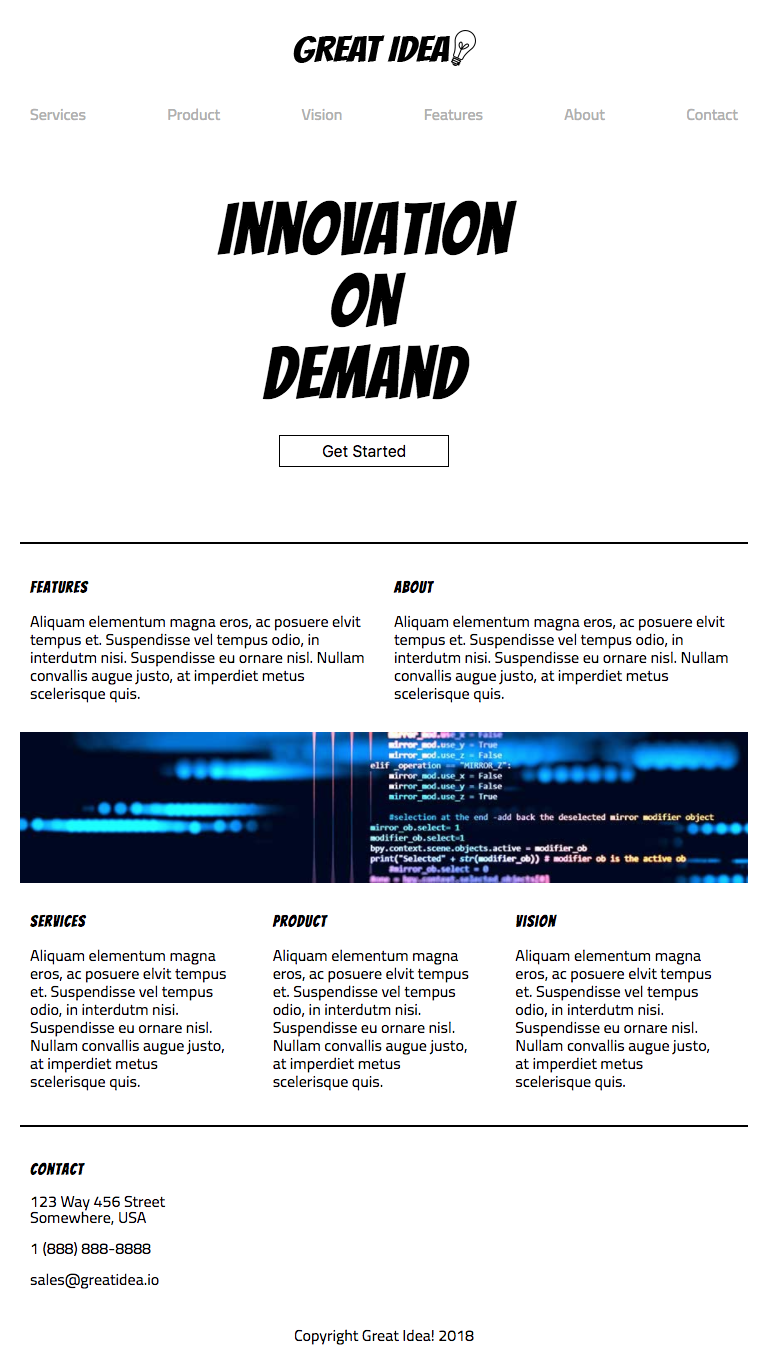
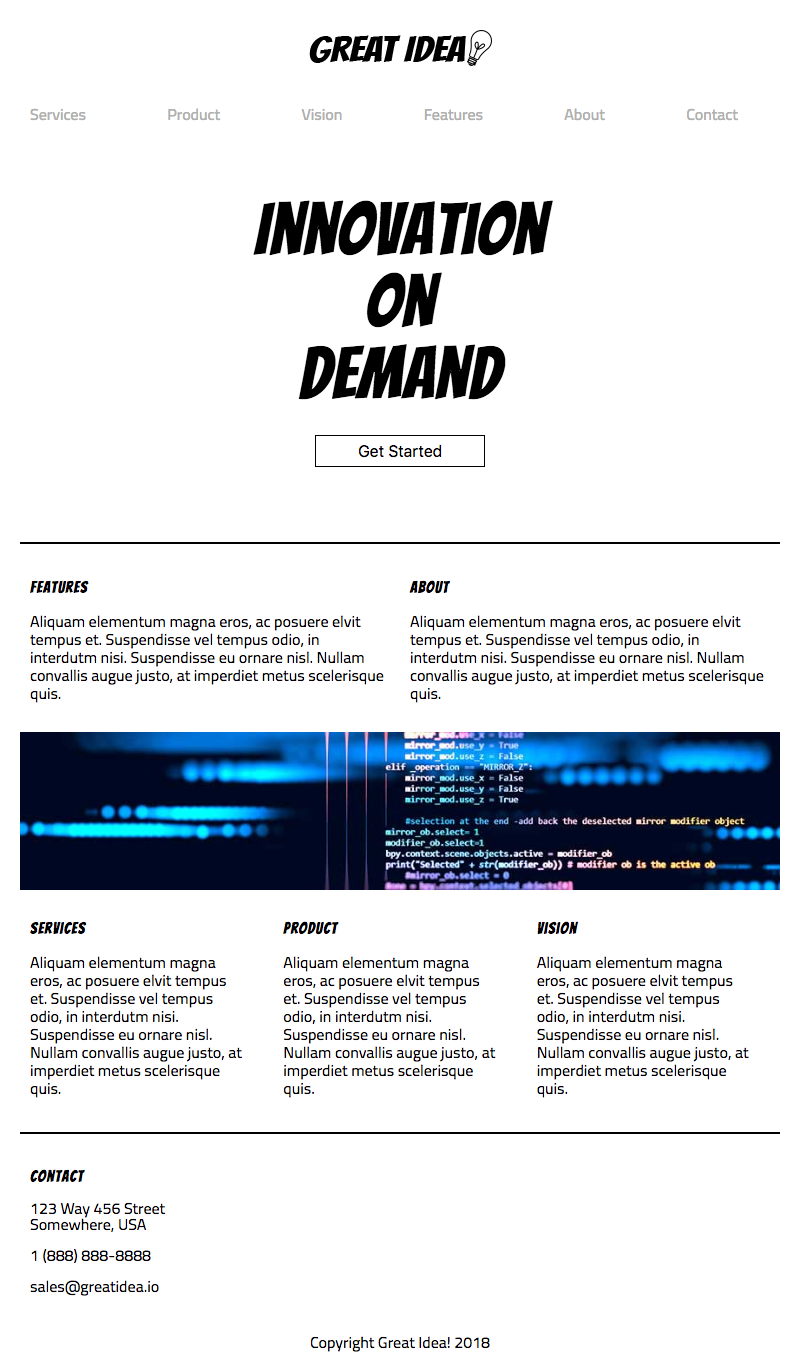
Updates to RWD - II

diff --git a/css/index.css b/css/index.css
@@ -1,175 +1,1 @@
-/* http://meyerweb.com/eric/tools/css/reset/ 
-   v2.0 | 20110126
-   License: none (public domain)
-*/
-
-html, body, div, span, applet, object, iframe,
-h1, h2, h3, h4, h5, h6, p, blockquote, pre,
-a, abbr, acronym, address, big, cite, code,
-del, dfn, em, img, ins, kbd, q, s, samp,
-small, strike, strong, sub, sup, tt, var,
-b, u, i, center,
-dl, dt, dd, ol, ul, li,
-fieldset, form, label, legend,
-table, caption, tbody, tfoot, thead, tr, th, td,
-article, aside, canvas, details, embed, 
-figure, figcaption, footer, header, hgroup, 
-menu, nav, output, ruby, section, summary,
-time, mark, audio, video {
-	margin: 0;
-	padding: 0;
-	border: 0;
-	font-size: 100%;
-	font: inherit;
-	vertical-align: baseline;
-}
-/* HTML5 display-role reset for older browsers */
-article, aside, details, figcaption, figure, 
-footer, header, hgroup, menu, nav, section {
-	display: block;
-}
-body {
-	line-height: 1;
-}
-ol, ul {
-	list-style: none;
-}
-blockquote, q {
-	quotes: none;
-}
-blockquote:before, blockquote:after,
-q:before, q:after {
-	content: '';
-	content: none;
-}
-table {
-	border-collapse: collapse;
-	border-spacing: 0;
-}
-
-/* Set every element's box-sizing to border-box */
-* {
-    box-sizing: border-box;
-}
-
-html, body {
-    height: 100%;
-    font-family: 'Titillium Web', sans-serif;
-}
-
-h1, h2, h3, h4, h5 {
-    font-family: 'Bangers', cursive;
-    letter-spacing: 1px;
-    margin-bottom: 10px;
-}
-
-.container {
-    width: 880px;
-    margin: auto;
-}
-
-/* Header Styles */
-
-header {
-    width: 100%;
-    display: flex;
-}
-
-header nav {
-    margin-top: 40px; 
-    width: 610px;
-    justify-content: space-between;
-    display: flex;
-}
-
-header nav a {
-    text-decoration: none;
-    color: #b0b0b0;
-}
-
-header nav a:hover {
-    text-decoration: underline;
-    color: black;
-}
-
-header .logo {
-    align-self: flex-end;
-    margin: 28px 0 0 91px;
-}
-
-/* Call To Action (CTA) Styles */
-
-.cta {
-    display: flex;
-    margin-top: 72px;
-    justify-content: flex-end;
-}
-
-.cta .cta-text {
-    font-size: 72px;
-    text-align: center;
-    letter-spacing: 5px;
-    display: flex;
-    justify-content: center;
-    flex-flow: column;
-    align-items: center;
-    margin: 0 82px 0 0;
-}
-
-.cta .cta-text button {
-    border: 1px double black;
-    font-size: 16px;
-    background: white;
-    width: 170px;
-    height: 32px;
-    margin-top: 10px;
-    cursor: pointer;
-}
-
-.cta .cta-text button:hover {
-    background: black;
-    color: white;
-}
-
-/* Main Content Styles */
-
-.main-content {
-   border-top: 2px solid black; 
-   border-bottom: 2px solid black;
-   margin: 75px 0 35px 0;
-   padding: 35px 0;
-   font-size: 16px;
-   line-height: 18px;
-}
-
-.main-content .top-content {
-    display: flex;
-    justify-content: space-around;
-}
-
-.main-content .middle-img {
-    display: block;
-    margin: 30px auto;
-}
-
-.main-content .bottom-content {
-    display: flex;
-    justify-content: space-around;
-}
-
-.main-content .bottom-content p {
-    padding-right: 20px;
-}
-
-/* Contact Styles */
-
-.contact p {
-    margin: 15px 0;
-}
-
-/* Footer Styles */
-
-footer {
-    text-align: center;
-    margin: 40px 0 20px;
-}
+/* Use your CSS from RWD - I here.  IF you don't have CSS, use the solution CSS from RWD - I*/

diff --git a/index.html b/index.html
@@ -5,7 +5,7 @@
   <meta charset="utf-8">
   <meta name="viewport" content="width=device-width, initial-scale=1.0">
 
-  <title>Great Idea!</title>
+  <title>Great Idea! - Fully Responsive!</title>
 
   <link href="https://fonts.googleapis.com/css?family=Bangers|Titillium+Web" rel="stylesheet">
   <link rel="stylesheet" href="css/index.css">

diff --git a/README.md b/README.md
@@ -1,26 +1,29 @@
-# Responsive-Web-Design
+# Responsive-Web-Design: Fully Responsive
 
-It's time to expand our skills into mobile devices.  You will be creating a fully responsive version of the desktop that you have been building all week. You will be working through design mock ups for desktop, tablet, and mobile devices located in the `design-files` folder. 
+You have experienced building fixed layout web pages, adaptive web pages, and now it's time to go fully responsive!  Using your new knowledge with responsive units, contstraints, and media queries you are now prepared to take on today's fully reponsive website project.
 
-## To Get Started
+## Task 1: Set Up The Project With Git
 
-* Fork / Clone this project into a directory on your machine.
-* Open the code with your preferred integrated development environment (IDE).
-* Start on the objectives 
+* [ ] Fork the project into your GitHub user account
+* [ ] Clone the forked project into a directory on your machine
+* [ ] You are now ready to build this project with your preferred IDE
 
-## Objectives
+## Task 2: Project Objectives
 
-* [ ] Constrain your container class with a `max-width` of 880px
-* [ ] Introduce max-width media queries into your project at 768px and 400px.  
 * [ ] Review each [design file](design-files) and build your styles at each breakpoint.
-* [ ] Convert all fixed widths, left and right margins and paddings throughout the site into percents. You will know this is working if you never see a horizontal scroll bar when you resize your browser.
 * [ ] Introduce `font-size: 62.5%;` into your `html` selector.
-* [ ] Convert all font-size pixels into rem units
+* [ ] Constrain your container element with a `max-width` of 880px
+* [ ] Introduce max-width media queries into your project at 800px and 500px  
+* [ ] Convert all fixed widths, left and right margins and paddings throughout the site into percents. You will know this is working if you never see a horizontal scroll bar when you resize your browser.
+* [ ] Convert all `font-size` values into rem units
 * [ ] Do your best to make the breakpoints look pixel-close-enough 
+* [ ] Once you have completed all of the project objectives, push your commits and make a pull request against the original fork
 
 ## Stretch Goals: 
 * [ ] Build the services page from earlier assignments into a responsive design using your own creativity
-* [ ] Once you have completed the project with max-width media queries, start over with min-width media queries to get a feel for how a mobile first approach would be like.  I recommend making a copy of all your contents in a new folder named "min-width" to keep it separate
+* [ ] [Look at BEM](http://getbem.com/) and convert your existing CSS into the appropriate selectors.
+* [ ] Introduce CSS animations at different break points across your site
+* [ ] Build another page based on one of the navigation items and use your creativity on how it looks.
 
 
 
